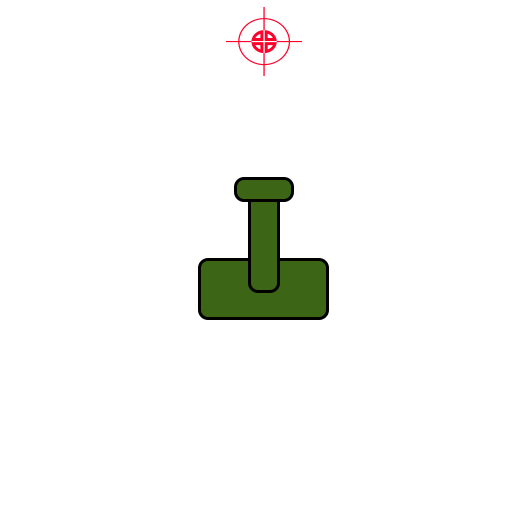
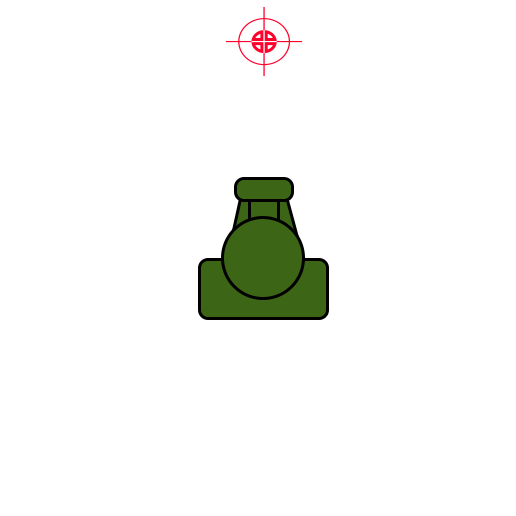
Adiciona projeto 04 etapa 2

Changed region(s): [[0.4031, 0.3721, 0.5891, 0.5891]]

diff --git a/Sprite.js b/Sprite.js
@@ -53,21 +53,25 @@ Sprite.prototype.desenharCubo = function (ctx) {
 };
 
 Sprite.prototype.desenharCirculo = function (ctx) {
-  ctx.beginPath();
-  ctx.arc(this.x, this.y, 30, 0, 2*Math.PI);
-  ctx.closePath();
-  ctx.fillStyle = "red";
-  ctx.fill();
+    ctx.fillStyle = "rgba(241, 178, 21, 0.3)";
+    ctx.strokeStyle = "blue";
+    ctx.beginPath();
+    var radius = 30;  //raio do circulo = diametro/2
+    var anticlockwise = true;
+    var startAngle = 0;     //inicia o arco na posição 0 graus (direita)
+    var endAngle = Math.PI*2; //termina o arco na posição 360 graus (volta completa)
+    ctx.arc(this.x, this.y, radius, startAngle, endAngle, anticlockwise);
+    ctx.closePath();
+    ctx.stroke(); //desenha a borda
+    ctx.fill();   //preenche
 
-  ctx.strokeStyle = "blue";
-  ctx.stroke();
-  ctx.strokeRect(this.x - 30, this.y - 30, 60, 60);
 };
 
 Sprite.prototype.desenharImg = function (ctx, img) {
   ctx.save();
   ctx.translate(this.x, this.y);
   ctx.rotate(this.angle*2*Math.PI/360);
+  ctx.rotate(Math.PI/2);
   ctx.fillStyle = this.color;
   ctx.drawImage(img, -this.width/2, -this.height/2, this.width, this.height);
   if(this.debug){
@@ -112,12 +116,27 @@ Sprite.prototype.moverPlayer = function (dt) {
   this.vy = this.vy + (this.ay+this.g)*dt;
   this.x = this.x + this.vx*dt;
   this.y = this.y + this.vy*dt;
-  if(this.angle < 100 && this.angle > -100)
+  if(this.angle > -180 && this.angle < 0)
      this.angle = this.angle + this.vang*dt;
-   else if(this.angle >= 100)
-     this.angle = 99;
+   else if(this.angle <= -180)
+     this.angle = -179;
    else
-     this.angle = -99;
+     this.angle = -1;
+  if(this.cooldown>0) {
+    this.cooldown -= dt;
+  } else {
+    this.cooldown = 0;
+  }
+};
+
+Sprite.prototype.moverAng = function (dt) {
+  this.angle = this.angle + this.vang*dt;
+  this.ax = this.am * Math.cos(Math.PI * this.angle/180);
+  this.ay = this.am * Math.sin(Math.PI * this.angle/180);
+  this.vx = this.vx + this.ax*dt;
+  this.vy = this.vy + (this.ay+this.g)*dt;
+  this.x = this.x + this.vx*dt;
+  this.y = this.y + this.vy*dt;
   if(this.cooldown>0) {
     this.cooldown -= dt;
   } else {

diff --git a/Main.html b/Main.html
@@ -36,9 +36,10 @@
         var dt = 1/fps;
 
         
-        var player = new Sprite(500,650);//(200,200);
+        var player = new Sprite(480,710);//(200,200);
         player.width = 516;
         player.height = 516;
+        player.angle = -90;
 
        // var background_A = new Sprite(0,0);
         var level = new Level()
@@ -81,7 +82,7 @@
              if(spawn == 0 ){
              	level.spawn();
              	spawn = 400;
-             	spawn = spawn - nivel*10;
+             	spawn = 50 + spawn - nivel*10;
              }
 
           	//checar colisoes
@@ -91,6 +92,10 @@
           		 life--;
           	});
 
+            level.colisaoBullets(function(inimigo, alvo){
+          		 console.log("acerto");
+          		 score = score + 200;
+          	});
 
           	player.moverPlayer(dt); 	
             level.mover(dt);
@@ -101,10 +106,11 @@
           	// desenhar na tela player e recursos do cenario(inimigos, balas)
        	  	//player.desenharImg(ctx, imgLoad.images["player"]);
          	//level.desenharImg(ctx,imgLoad);
-
+            
+            level.desenharImg(ctx,imgLoad.images["shot"]);
          	player.desenharImg(ctx,imgLoad.images["player"]);
          	level.desenhar(ctx);
-         	level.desenharImg(ctx,imgLoad.images["shot"]);
+         	
          	
 
        	    drawHUD();
@@ -157,12 +163,12 @@
           case 40:
             break;  
           case 37:
-               player.vang = -80;
+               player.vang = -50;
             break;
           case 38:
             break;
           case 39:
-               player.vang = 80;
+               player.vang = 50;
           default:
         }
       });

diff --git a/Level.js b/Level.js
@@ -57,7 +57,7 @@ Level.prototype.mover = function (dt) {
       }
     }
   for (var i = this.bullet.length - 1; i >= 0; i--) {
-      this.bullet[i].mover(dt);
+      this.bullet[i].moverAng(dt);
       if(
           this.bullet[i].x >  1000 ||
           this.bullet[i].x < -1000 ||
@@ -87,15 +87,15 @@ Level.prototype.desenhar = function (ctx) {
 Level.prototype.fire = function (alvo, audiolib, key, vol){
   if(alvo.cooldown>0) return;
   var tiro = new Sprite();
-  tiro.x = alvo.x ;
-  tiro.y = alvo.y - 40;
+  tiro.x = alvo.x + 5;
+  tiro.y = alvo.y - 10;
   tiro.angle = alvo.angle;
-  tiro.vy = -600;
-  tiro.width = 16;
-  tiro.height = 32;
+  tiro.am = 1000;
+  tiro.width = 50;
+  tiro.height = 100;
   tiro.imgkey = "shot";
   this.bullet.push(tiro);
-  alvo.cooldown = 1;
+  alvo.cooldown = 0.8;
   if(audiolib && key) audiolib.play(key,vol);
 }
 
@@ -115,7 +115,17 @@ Level.prototype.colidiuCom = function (resolveColisao) {
      }
  };
 
-
+Level.prototype.colisaoBullets = function (resolveColisao) {
+    for (var i = 0; i < this.meteor.length; i++) {
+      for (var j = 0;  j < this.bullet.length; j++) {
+        if(this.bullet[j].colidiuCom(this.meteor[i])){
+          resolveColisao(this.builds[j], this.meteor[i]);
+          this.bullet.splice(j, 1);
+          this.meteor.splice(i, 1);
+        }
+       }
+     }
+ };
 
 
 
